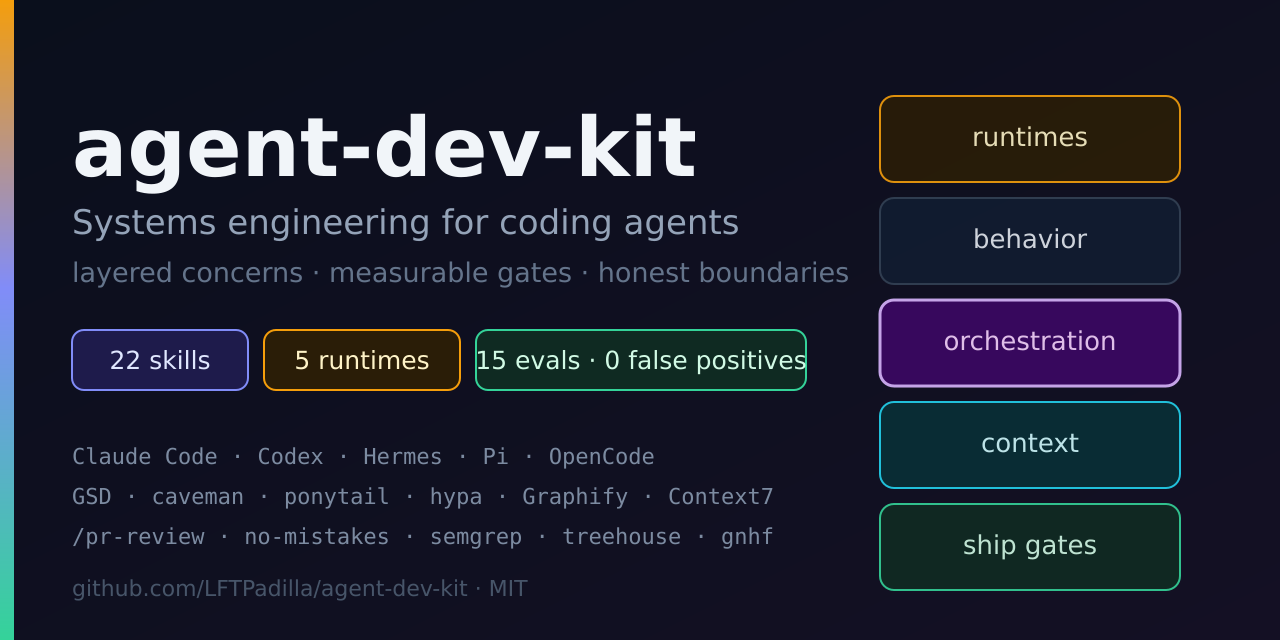
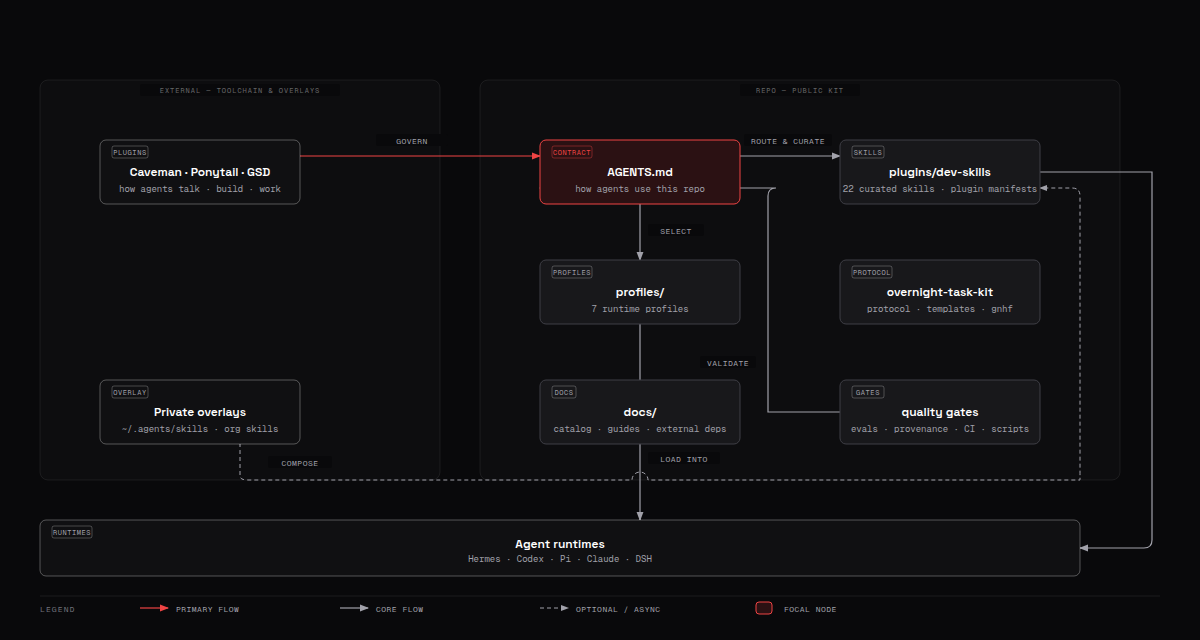
docs: polish public presentation surface
- CONTRIBUTING.md + SECURITY.md (private vulnerability reporting)
- .gitignore: ignore .claude/ worktrees and .gnhf/ run logs
- README: profiles-7 badge (was runtimes-5, repo ships 7), About the
  author section, website source note
- docs index: fix stale stack-diagram reference, document the two
  diagram source styles, add the kit architecture to the diagram table
- social-preview.png: regenerate from the editorial kit diagram (was
  D2-style); drop the stale social-preview.svg

diff --git a/docs/README.md b/docs/README.md
@@ -1,13 +1,13 @@
 # Docs index
 
-Start with the [stack diagram](diagrams/stack.svg) in the
-[root README](../README.md), then pick a lane.
+Start with the [kit architecture diagram](../docs/diagrams/agent-dev-kit-architecture.svg)
+in the [root README](../README.md), then pick a lane.
 
 ## Start here
 
 | Doc | Read it when |
 |---|---|
-| [https://agent-dev-kit.devpipe.net/](https://agent-dev-kit.devpipe.net/) | **Live Web Platform.** Interactive showcase, terminal simulator & 22-skills explorer |
+| [https://agent-dev-kit.devpipe.net/](https://agent-dev-kit.devpipe.net/) | **Live Web Platform.** Interactive showcase, terminal simulator & 22-skills explorer (source: `agent-dev-kit-web`, a separate repo) |
 | [how-it-fits-together.md](how-it-fits-together.md) | You want the one map: runtimes → behavior → orchestration → gates |
 | [skills-catalog.md](skills-catalog.md) | You want to know what the 22 skills do and what triggers them |
 | [external-deps.md](external-deps.md) | You want install commands for everything not vendored here |
@@ -46,23 +46,25 @@ Start with the [stack diagram](diagrams/stack.svg) in the
 
 ## Diagrams
 
-Sources live in [`diagrams/`](diagrams) — `.d2` and `.mmd`. Rebuild every SVG:
+Two source styles live in [`diagrams/`](diagrams):
 
-```bash
-npm run render:diagrams
-```
+- **D2 / Mermaid** — rebuild every SVG with `npm run render:diagrams`.
+- **Editorial (diagram-design)** — `*.html` is the source of truth; SVG/PNG
+  exports are produced from it (see `references/export.md` in the skill).
 
 | Source | Renders |
 |---|---|
 | [`stack.d2`](diagrams/stack.d2) | Hero: the whole tool stack |
+| [`agent-dev-kit-architecture.html`](diagrams/agent-dev-kit-architecture.html) | README hero — the kit, on one screen (diagram-design) |
 | [`personal-dev-tutor-architecture.html`](diagrams/personal-dev-tutor-architecture.html) | Flagship orchestrator internals (diagram-design) |
 | [`personal-dev-tutor-flow.mmd`](diagrams/personal-dev-tutor-flow.mmd) | Flagship request → verification flow |
-| [`social-preview.svg`](diagrams/social-preview.svg) | `social-preview.png` (1280×640) |
+| [`agent-dev-kit-architecture.html`](diagrams/agent-dev-kit-architecture.html) | `social-preview.png` (1200×640) — the manual upload |
 
-**Social preview is the one manual step.** GitHub has no API for it: after
-`npm run render:diagrams`, upload `diagrams/social-preview.png` under
-*repo → Settings → General → Social preview*. That image is what renders when
-the repo link is pasted into Slack, X, or LinkedIn.
+**Social preview is the one manual step.** GitHub has no API for it: export
+`social-preview.png` from `agent-dev-kit-architecture.html` (diagram-only
+render), then upload it under *repo → Settings → General → Social preview*.
+That image is what renders when the repo link is pasted into Slack, X, or
+LinkedIn.
 
 ## Demo
 

diff --git a/CONTRIBUTING.md b/CONTRIBUTING.md
@@ -1,0 +1,43 @@
+# Contributing
+
+Small, curated, public-safe. Before opening a PR, read
+[`AGENTS.md`](AGENTS.md) (how agents use this repo), [`CURATION.md`](CURATION.md)
+(what gets in and why), and [`ATTRIBUTION.md`](ATTRIBUTION.md) (what is borrowed).
+
+## Adding or changing a skill
+
+1. Add `plugins/dev-skills/skills/<name>/SKILL.md` with `name` + `description`
+   frontmatter (kebab-case name, `description` states what it does and when to
+   use it).
+2. Keep it dependency-free, or list dependencies and install per host — see
+   `docs/external-deps.md`.
+3. **Scrub before commit:** no absolute paths, host IPs, account IDs, internal
+   system names, client names, or vendored `node_modules`. Private context
+   belongs in overlays outside this repo (`docs/private-overlays.md`).
+4. Bump plugin versions with `package.json` (keep
+   `plugins/dev-skills/.claude-plugin/plugin.json` and
+   `plugins/dev-skills/.codex-plugin/plugin.json` aligned).
+5. Add a `skill-provenance.json` entry (source · license · risk).
+6. Run `npm run validate` — it must pass.
+
+## Adding a diagram
+
+- Editorial diagrams use the **diagram-design** skill: the self-contained
+  `docs/diagrams/<name>.html` is the source of truth; commit the exported
+  `.svg` and `.png` alongside it.
+- D2 / Mermaid sources rebuild via `npm run render:diagrams`.
+- Update the table in `docs/README.md` (Diagrams section) when you add one.
+
+## Keeping the repo honest
+
+- Never reintroduce employer/client names, private paths, or employer-named
+  defaults into tracked files — re-run the coupling scan before major public
+  updates (`docs/going-public.md`).
+- `evals/` numbers and caveats must stay accurate; update
+  `evals/PROTOCOL.md` when you score a new run.
+
+## Merge discipline
+
+- CI runs `npm run validate` plus shell syntax/shellcheck on every push and PR.
+- Third-party skills must stay **untracked** and be restored from
+  `skills-lock.json` — a tracked `.agents/skills` tree fails the gate.

diff --git a/SECURITY.md b/SECURITY.md
@@ -1,0 +1,32 @@
+# Security
+
+This repo is a public kit for directing coding agents. It contains no
+production services, credentials, or customer data — but it *is* the kind of
+code that teaches agents to handle untrusted input, so vulnerabilities in the
+skills, prompts, or scripts still matter.
+
+## Reporting a vulnerability
+
+Please report security issues through **GitHub Private Vulnerability
+Reporting** (repo → *Security → Report a vulnerability*) rather than a public
+issue, so the report is visible only to the maintainer.
+
+What to include:
+
+- The affected file(s) and a minimal reproduction (a prompt, a skill, or a
+  script input that triggers it).
+- Impact: what an attacker could do, and under what assumptions (e.g. "an
+  agent runs this skill on a malicious PR description").
+- Suggested fix, if you have one.
+
+## What we do about it
+
+- Findings are triaged privately and fixed on `main`; a fix is announced in
+  the commit/PR that lands it.
+- Skills that read untrusted input (diffs, web pages, issues, PR bodies) are
+  expected to follow the prompt-injection defense in
+  [`docs/prompt-defense.md`](docs/prompt-defense.md) — a skill that doesn't
+  is a bug worth reporting.
+- Third-party skills are pinned in `skills-lock.json` and restored via the
+  skills CLI; update them with the documented flow, never by editing this
+  tree's copies.

diff --git a/README.md b/README.md
@@ -6,7 +6,7 @@
 ![Codex](https://img.shields.io/badge/Codex-compatible-000000)
 ![Hermes](https://img.shields.io/badge/Hermes-profiles-4B0082)
 ![Skills](https://img.shields.io/badge/skills-22-4f46e5)
-![Runtimes](https://img.shields.io/badge/runtimes-5-f59e0b)
+![Profiles](https://img.shields.io/badge/profiles-7-f59e0b)
 ![Evals](https://img.shields.io/badge/evals-12%20planted%20%C2%B7%203%20controls-10b981)
 [![Live Website](https://img.shields.io/badge/live--demo-agent--dev--kit.devpipe.net-00d2ff)](https://agent-dev-kit.devpipe.net/)
 
@@ -285,6 +285,14 @@ Full catalog: [`docs/skills-catalog.md`](docs/skills-catalog.md).
 4. Bump plugin versions with `package.json`.
 5. Add `skill-provenance.json` entry.
 6. Run `npm run validate`.
+
+## About the author
+
+Built by **Luis Felipe Tejada Padilla** — AI-native software engineer working
+on agentic development systems. See the [GitHub profile](https://github.com/LFTPadilla)
+(readme + pinned projects) and the [live platform](https://agent-dev-kit.devpipe.net/).
+The website source lives in the companion `agent-dev-kit-web` repository; this
+repo stays focused on the kit itself.
 
 ## License
 
